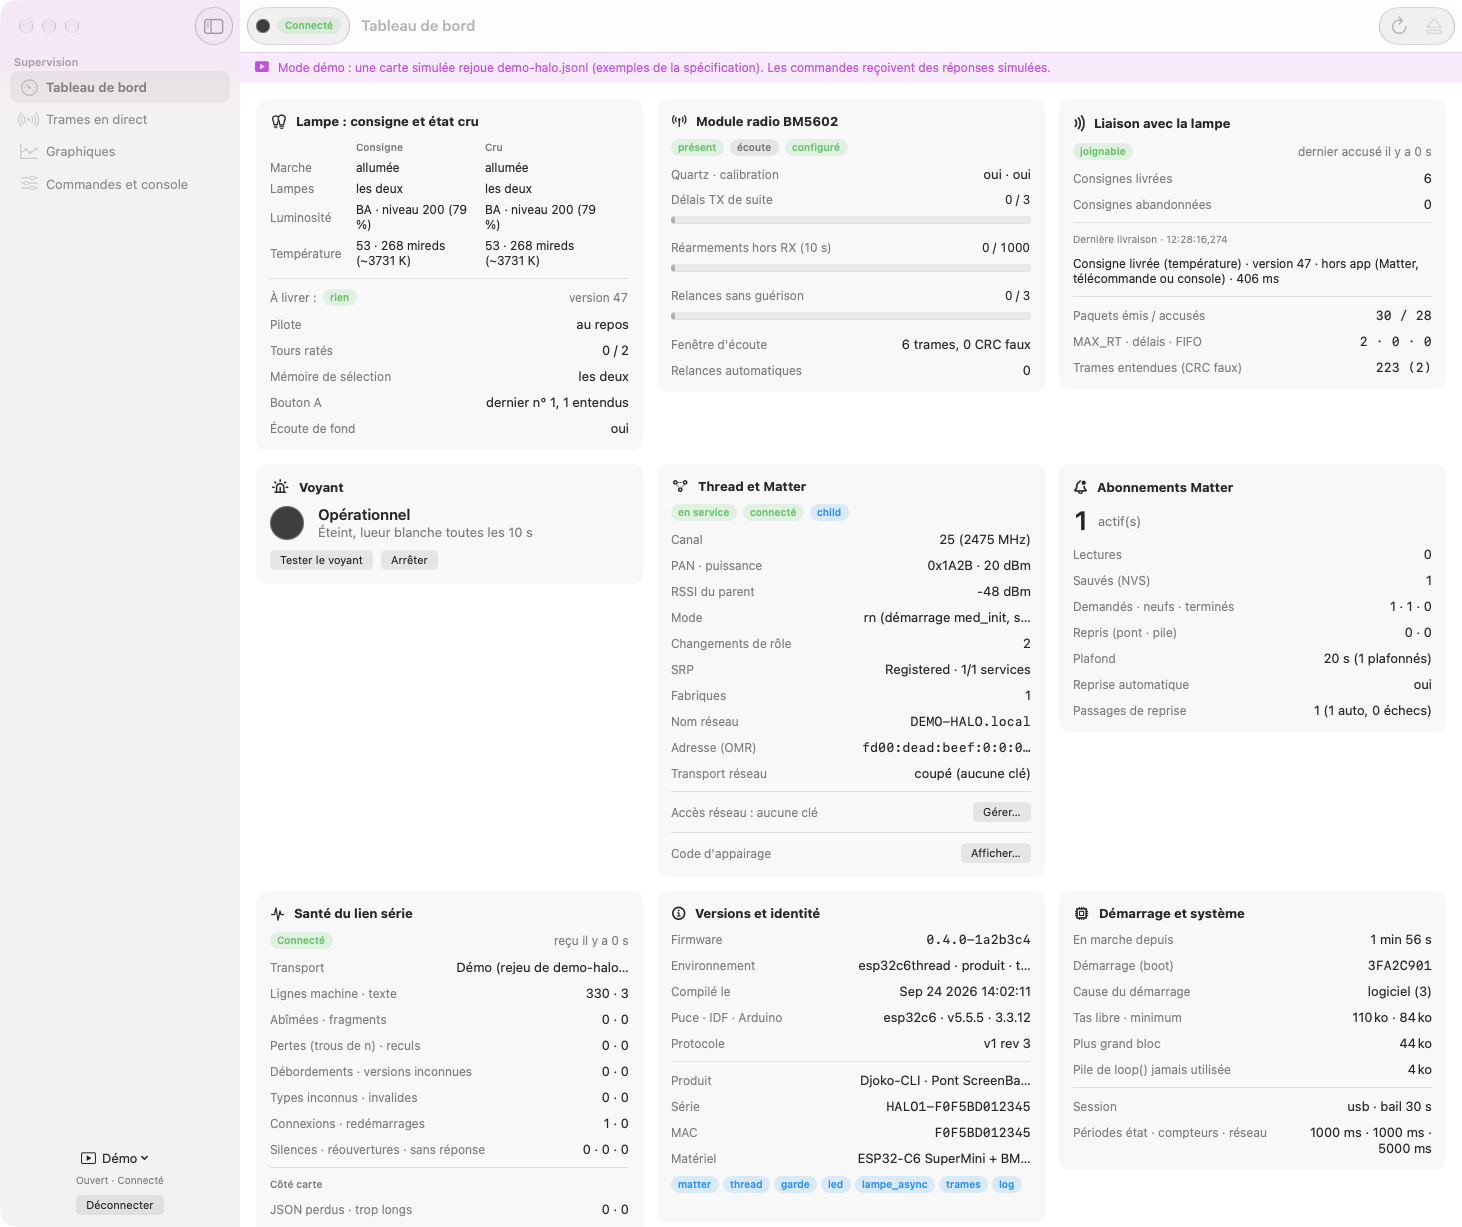
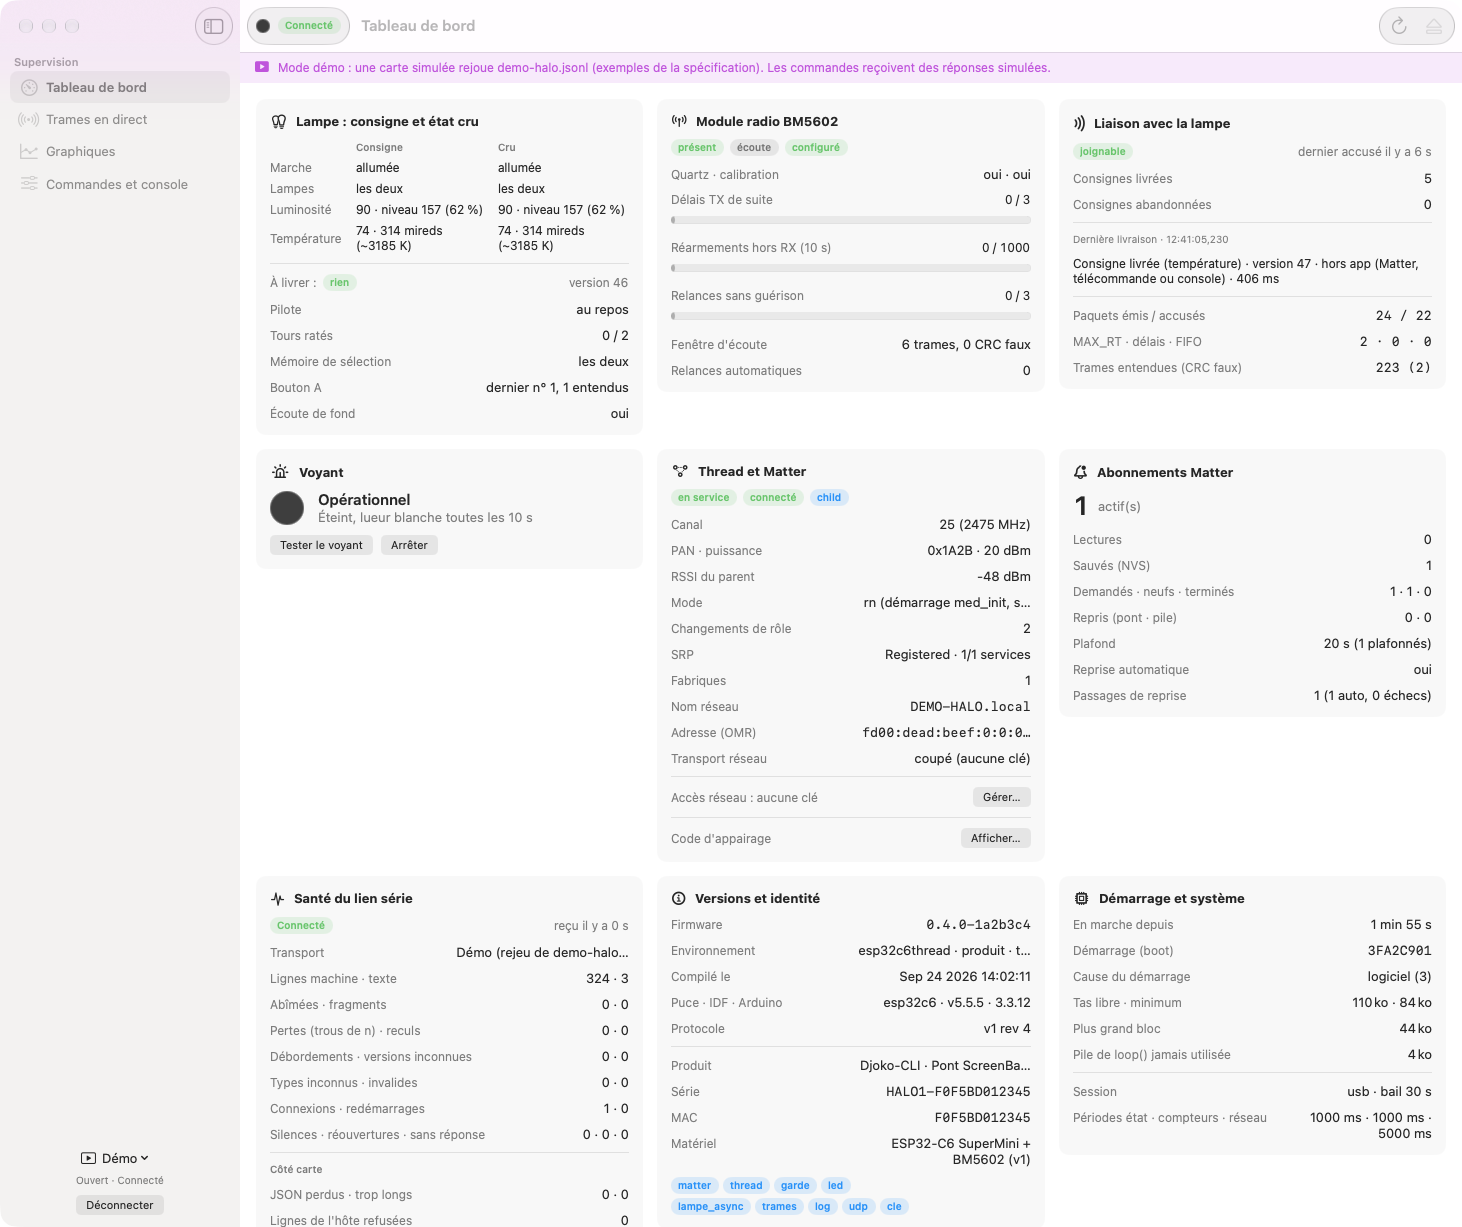
Regenerer la demo en rev 4 et refaire les captures
generer_demo.py suit la rev 4 : hello rev 4, capacites udp et cle,
led.depuis_ms dans le bloc sante et les evenements led (meme regle que
status_led : un evenement part de zero, le retour en ligne reprend la phase
de la lueur, sauf apres hors_reseau). L'exemple 12.1 reseau/thread porte
desormais le code d'appairage et le QR, comme la carte le fait depuis la
rev 3 par l'USB (l'ancien fichier de demo les avait ajoutes a la main) ; le
test des exemples suit. Captures des quatre ecrans refaites avec cette demo.

diff --git a/apps/macos/HaloProtocoleTests/ExemplesSpecTests.swift b/apps/macos/HaloProtocoleTests/ExemplesSpecTests.swift
@@ -122,7 +122,9 @@ struct ExemplesSpecTests {
         #expect(th.thread?.role == "child")
         #expect(th.thread?.parentRssi == -48)
         #expect(th.thread?.srp?.hote == "Registered")
-        #expect(th.matter?.codeManuel == nil)
+        // Rev 3 : les codes partent aussi une fois en service (session USB).
+        #expect(th.matter?.codeManuel == "34970112332")
+        #expect(th.matter?.qr == "MT:Y.K9042C00KA0648G00")
 
         guard case .reseauAbonnements(let a) = l[10].message else { Issue.record("abonnements"); return }
         #expect(a.abonnements?.actifs == 1)

diff --git a/apps/macos/Outils/generer_demo.py b/apps/macos/Outils/generer_demo.py
@@ -160,6 +160,10 @@ class Carte:
                         "attente_ms": 0, "relances": 0, "derniere": None}
         self.derniere_at = None
         self.led = "operationnel"
+        # Depart de la phase du voyant (led.depuis_ms, rev 4) : la carte est en
+        # ligne depuis ms 21357 (12.1 : depuis_ms 62160 a ms 83517).
+        self.net_at = 21357
+        self.led_at = self.net_at
         self.matter_sante = {"en_service": True, "connecte": True, "identify": False}
         self.sys = {"heap": 112640, "heap_min": 86016, "heap_bloc": 45056, "pile_boucle": 4380,
                     "boucle_max_ms": 3, "json_perdus": 0, "json_trop_longs": 0, "rejets": 0}
@@ -186,7 +190,7 @@ class Carte:
                        "srp": {"client": True, "hote": "Registered", "services": 1, "enregistres": 1,
                                "serveur": "fd93:fff3:b88f:1::1", "port": 53535}}
         self.matter_reseau = {"en_service": True, "connecte": True, "reseau": "thread", "wifi": False,
-                              "fabriques": 1, "code_manuel": None, "qr": None}
+                              "fabriques": 1, "code_manuel": "34970112332", "qr": "MT:Y.K9042C00KA0648G00"}
         self.abo = {"actifs": 1, "lectures": 0, "sauves": 1, "demandes": 1, "neufs": 1, "repris_pont": 0,
                     "repris_pile": 0, "termines": 0, "plafond_s": 20, "plafonnes": 1, "reprise_auto": True}
         self.reprise = {"passages": 1, "auto": 1, "sessions": 0, "ouvertes": 0, "echecs": 0,
@@ -250,7 +254,8 @@ class Carte:
                 "boot": BOOT, "up_s": self.up_s(),
                 "radio": {"presente": True, "perdue": False, "mode": self.radio_mode, "configuree": True,
                           "quartz": True, "calib": True},
-                "surveil": s, "led": {"motif": self.led, "test": False}, "matter": dict(self.matter_sante),
+                "surveil": s, "led": {"motif": self.led, "test": False, "depuis_ms": self.ms - self.led_at},
+                "matter": dict(self.matter_sante),
                 "sys": dict(self.sys)}),
             ("compteurs", "pilote", {"raz": 0, "tx": dict(self.tx), "tranches": dict(self.tr), "a": dict(self.a),
                                      "rx": dict(self.rx), "divers": dict(self.divers)}),
@@ -273,6 +278,8 @@ class Carte:
             s["derniere"] = dict(s["derniere"])
             s["derniere"].pop("il_y_a_s", None)
             c["surveil"] = s
+        if isinstance(c.get("led"), dict):
+            c["led"] = {k: v for k, v in c["led"].items() if k != "depuis_ms"}
         return json.dumps(c, sort_keys=True)
 
     def instantane(self, force=False):
@@ -288,7 +295,13 @@ class Carte:
     def led_evt(self, motif):
         avant = self.led
         self.led = motif
-        self.emet("led", {"motif": motif, "avant": avant, "test": False})
+        # Comme status_led : un evenement part de zero ; le retour en
+        # "operationnel" reprend la phase de la lueur, sauf apres "hors_reseau"
+        # (retour en ligne = nouveau depart, setNet).
+        if motif == "hors_reseau" or (motif == "operationnel" and avant == "hors_reseau"):
+            self.net_at = self.ms
+        self.led_at = self.net_at if motif == "operationnel" else self.ms
+        self.emet("led", {"motif": motif, "avant": avant, "test": False, "depuis_ms": self.ms - self.led_at})
 
     def _rx(self, pay, no_ack=False, crc_faux=False, type_=None, sens=None, source="ecoute"):
         self.pid = (self.pid + 1) & 3
@@ -493,7 +506,7 @@ def scenario():
     entete(c)
 
     # 0 s : instantane de connexion (12.1), sans la reponse : le rejeu la fabrique avec l'id de l'app.
-    hello_base = {"rev": 0, "fw": "0.4.0-1a2b3c4", "fw_desc": "0.4.0-1a2b3c4", "date": "Sep 24 2026",
+    hello_base = {"rev": 4, "fw": "0.4.0-1a2b3c4", "fw_desc": "0.4.0-1a2b3c4", "date": "Sep 24 2026",
                   "heure": "14:02:11", "env": "esp32c6thread", "build": "produit", "reseau_build": "thread",
                   "puce": "esp32c6", "idf": "v5.5.5", "arduino": "3.3.12", "boot": BOOT, "reset": "logiciel",
                   "reset_n": 3, "up_s": 83,
@@ -505,7 +518,8 @@ def scenario():
     c.emet("hello", {"boot": BOOT, "mac": "F0F5BD012345",
                      "id": {"fabricant": "Djoko-CLI", "produit": "Pont ScreenBar Halo", "serie": "HALO1-F0F5BD012345",
                             "nom": "Halo", "hw": 1, "hw_txt": "ESP32-C6 SuperMini + BM5602"},
-                     "caps": ["matter", "thread", "garde", "led", "lampe_async", "trames", "log"]}, "identite")
+                     "caps": ["matter", "thread", "garde", "led", "lampe_async", "trames", "log", "udp", "cle"]},
+           "identite")
     c.avance(1)
     c.emet("config", {"lampe": {"adresse": "4FF0FD63", "air": "63FDF04F", "canal": 5, "debit_kbps": 125},
                       "reglages": {"paquets": 3, "accuses_min": 2, "paquets_max": 5, "ecart_ms": 100,

diff --git a/docs/PROTOCOLE-JSON.fr.md b/docs/PROTOCOLE-JSON.fr.md
@@ -1572,7 +1572,7 @@ Carte -> app :
 <RS>{"v":1,"t":"compteurs","n":6,"ms":83518,"bloc":"pilote","raz":0,"tx":{"consignes":6,"paquets":21,"accuses":19,"ack_trame":0,"max_rt":2,"delais":0,"fifo":0,"total":21},"tranches":{"faibles":0,"preemptees":1,"annulees":0,"reprises":0,"abandons":0,"attentes":0},"a":{"livres":0,"refuses":0},"rx":{"trames":148,"etat":36,"a":0,"accuses_lampe":36,"service":76,"favori":0,"invalides":0,"crc_faux":0},"divers":{"sauvegardes":3,"traces_perdues":0,"relances_module":0}}
 <RS>{"v":1,"t":"compteurs","n":7,"ms":83519,"bloc":"radio","raz":0,"radio":{"configs":161,"reconf_silence":139,"reconf_tx":2,"verif_ratees":0,"rearm":560,"rearm_hors_rx":3,"brutes":148,"bascules":0},"garde":{"active":true,"gardes":21,"refus":0,"attentes":4,"plafonnees":0,"max_us":2380},"relances":{"total":0,"verif":0,"delais":0,"bruit":0,"sourde":0}}
 <RS>{"v":1,"t":"compteurs","n":8,"ms":83520,"bloc":"matter","fenetres":5,"ignorees":1,"reflets":11,"ecritures":14,"echecs":0,"verrou":2,"traces_perdues":0,"identify":0}
-<RS>{"v":1,"t":"reseau","n":9,"ms":83521,"bloc":"thread","frais_ms":310,"matter":{"en_service":true,"connecte":true,"reseau":"thread","wifi":false,"fabriques":1,"code_manuel":null,"qr":null},"thread":{"role":"child","canal":25,"mhz":2475,"pan":"0x1A2B","tx_dbm":20,"parent_rssi":-48,"mode":"rn","type_boot":"med_init","type_suivant":"med_init","pret_ms":21870,"roles":2,"mle":{"attaches":1,"detache":1,"enfant":1,"routeur":0,"chef":0,"parent_change":0},"srp":{"client":true,"hote":"Registered","services":1,"enregistres":1,"serveur":"fd93:fff3:b88f:1::1","port":53535}}}
+<RS>{"v":1,"t":"reseau","n":9,"ms":83521,"bloc":"thread","frais_ms":310,"matter":{"en_service":true,"connecte":true,"reseau":"thread","wifi":false,"fabriques":1,"code_manuel":"34970112332","qr":"MT:Y.K9042C00KA0648G00"},"thread":{"role":"child","canal":25,"mhz":2475,"pan":"0x1A2B","tx_dbm":20,"parent_rssi":-48,"mode":"rn","type_boot":"med_init","type_suivant":"med_init","pret_ms":21870,"roles":2,"mle":{"attaches":1,"detache":1,"enfant":1,"routeur":0,"chef":0,"parent_change":0},"srp":{"client":true,"hote":"Registered","services":1,"enregistres":1,"serveur":"fd93:fff3:b88f:1::1","port":53535}}}
 <RS>{"v":1,"t":"reseau","n":10,"ms":83522,"bloc":"abonnements","frais_ms":1210,"abonnements":{"actifs":1,"lectures":0,"sauves":1,"demandes":1,"neufs":1,"repris_pont":0,"repris_pile":0,"termines":0,"plafond_s":20,"plafonnes":1,"reprise_auto":true},"reprise":{"passages":1,"auto":1,"sessions":0,"ouvertes":0,"echecs":0,"sans_nouvelles":0,"reprises":0,"en_cours":false}}
 <RS>{"v":1,"t":"reponse","n":11,"ms":83523,"id":1,"etape":"fin","cmd":"json 1","ok":true,"code":"ok","duree_ms":12,"bail_s":30,"up_s":83}
 ```

diff --git a/docs/PROTOCOLE-JSON.md b/docs/PROTOCOLE-JSON.md
@@ -1602,7 +1602,7 @@ Board -> app:
 <RS>{"v":1,"t":"compteurs","n":6,"ms":83518,"bloc":"pilote","raz":0,"tx":{"consignes":6,"paquets":21,"accuses":19,"ack_trame":0,"max_rt":2,"delais":0,"fifo":0,"total":21},"tranches":{"faibles":0,"preemptees":1,"annulees":0,"reprises":0,"abandons":0,"attentes":0},"a":{"livres":0,"refuses":0},"rx":{"trames":148,"etat":36,"a":0,"accuses_lampe":36,"service":76,"favori":0,"invalides":0,"crc_faux":0},"divers":{"sauvegardes":3,"traces_perdues":0,"relances_module":0}}
 <RS>{"v":1,"t":"compteurs","n":7,"ms":83519,"bloc":"radio","raz":0,"radio":{"configs":161,"reconf_silence":139,"reconf_tx":2,"verif_ratees":0,"rearm":560,"rearm_hors_rx":3,"brutes":148,"bascules":0},"garde":{"active":true,"gardes":21,"refus":0,"attentes":4,"plafonnees":0,"max_us":2380},"relances":{"total":0,"verif":0,"delais":0,"bruit":0,"sourde":0}}
 <RS>{"v":1,"t":"compteurs","n":8,"ms":83520,"bloc":"matter","fenetres":5,"ignorees":1,"reflets":11,"ecritures":14,"echecs":0,"verrou":2,"traces_perdues":0,"identify":0}
-<RS>{"v":1,"t":"reseau","n":9,"ms":83521,"bloc":"thread","frais_ms":310,"matter":{"en_service":true,"connecte":true,"reseau":"thread","wifi":false,"fabriques":1,"code_manuel":null,"qr":null},"thread":{"role":"child","canal":25,"mhz":2475,"pan":"0x1A2B","tx_dbm":20,"parent_rssi":-48,"mode":"rn","type_boot":"med_init","type_suivant":"med_init","pret_ms":21870,"roles":2,"mle":{"attaches":1,"detache":1,"enfant":1,"routeur":0,"chef":0,"parent_change":0},"srp":{"client":true,"hote":"Registered","services":1,"enregistres":1,"serveur":"fd93:fff3:b88f:1::1","port":53535}}}
+<RS>{"v":1,"t":"reseau","n":9,"ms":83521,"bloc":"thread","frais_ms":310,"matter":{"en_service":true,"connecte":true,"reseau":"thread","wifi":false,"fabriques":1,"code_manuel":"34970112332","qr":"MT:Y.K9042C00KA0648G00"},"thread":{"role":"child","canal":25,"mhz":2475,"pan":"0x1A2B","tx_dbm":20,"parent_rssi":-48,"mode":"rn","type_boot":"med_init","type_suivant":"med_init","pret_ms":21870,"roles":2,"mle":{"attaches":1,"detache":1,"enfant":1,"routeur":0,"chef":0,"parent_change":0},"srp":{"client":true,"hote":"Registered","services":1,"enregistres":1,"serveur":"fd93:fff3:b88f:1::1","port":53535}}}
 <RS>{"v":1,"t":"reseau","n":10,"ms":83522,"bloc":"abonnements","frais_ms":1210,"abonnements":{"actifs":1,"lectures":0,"sauves":1,"demandes":1,"neufs":1,"repris_pont":0,"repris_pile":0,"termines":0,"plafond_s":20,"plafonnes":1,"reprise_auto":true},"reprise":{"passages":1,"auto":1,"sessions":0,"ouvertes":0,"echecs":0,"sans_nouvelles":0,"reprises":0,"en_cours":false}}
 <RS>{"v":1,"t":"reponse","n":11,"ms":83523,"id":1,"etape":"fin","cmd":"json 1","ok":true,"code":"ok","duree_ms":12,"bail_s":30,"up_s":83}
 ```
